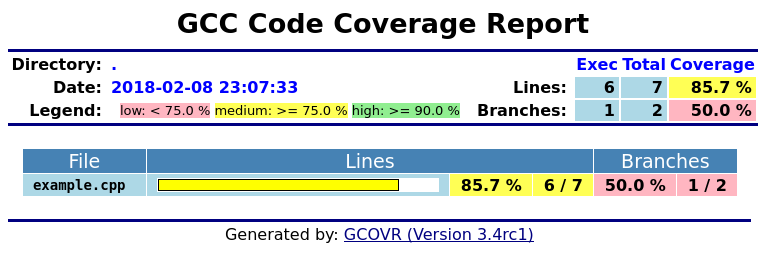
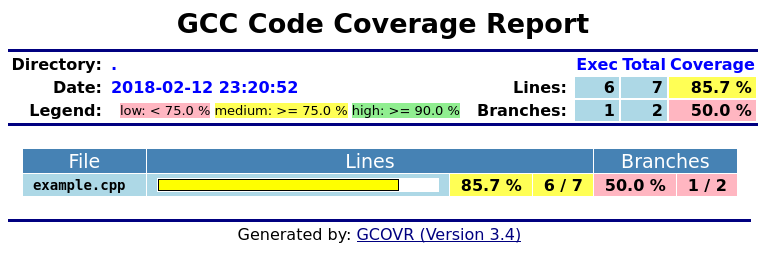
release 3.4

Changed region(s): [[0.303, 0.8266, 0.7273, 0.9151], [0.303, 0.2952, 0.3939, 0.3542], [0.2424, 0.2952, 0.303, 0.3542]]

diff --git a/setup.py b/setup.py
@@ -25,7 +25,7 @@ def read(*rnames):
 scripts = glob.glob("scripts/*")
 
 setup(name='gcovr',
-      version='3.4rc1',
+      version='3.4',
       maintainer='William Hart',
       maintainer_email='wehart@sandia.gov',
       url='http://gcovr.com',
